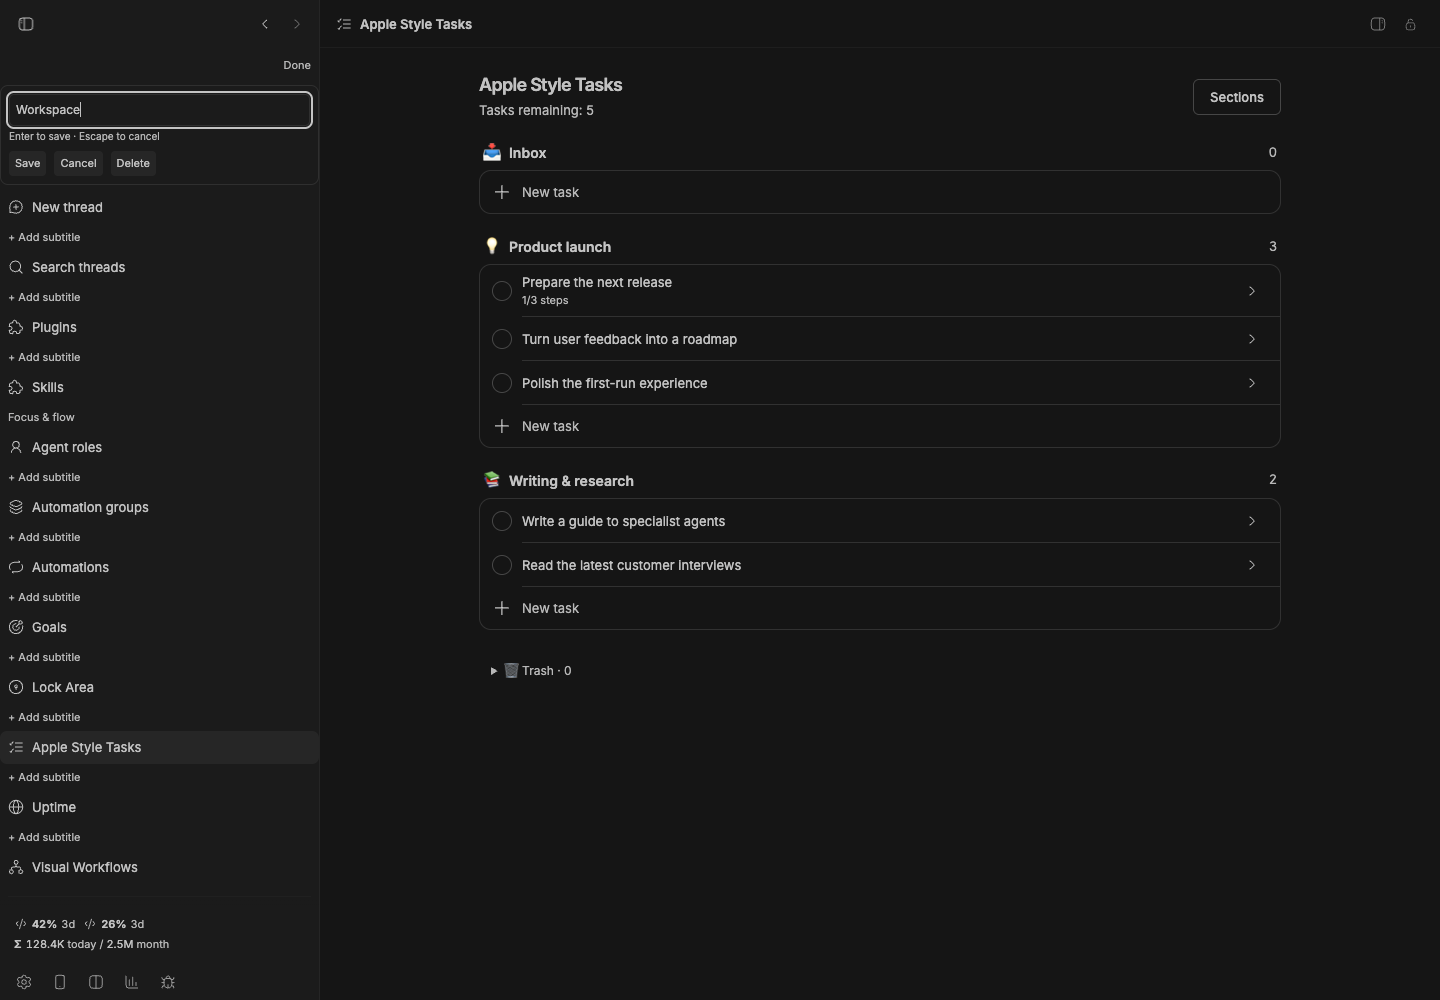
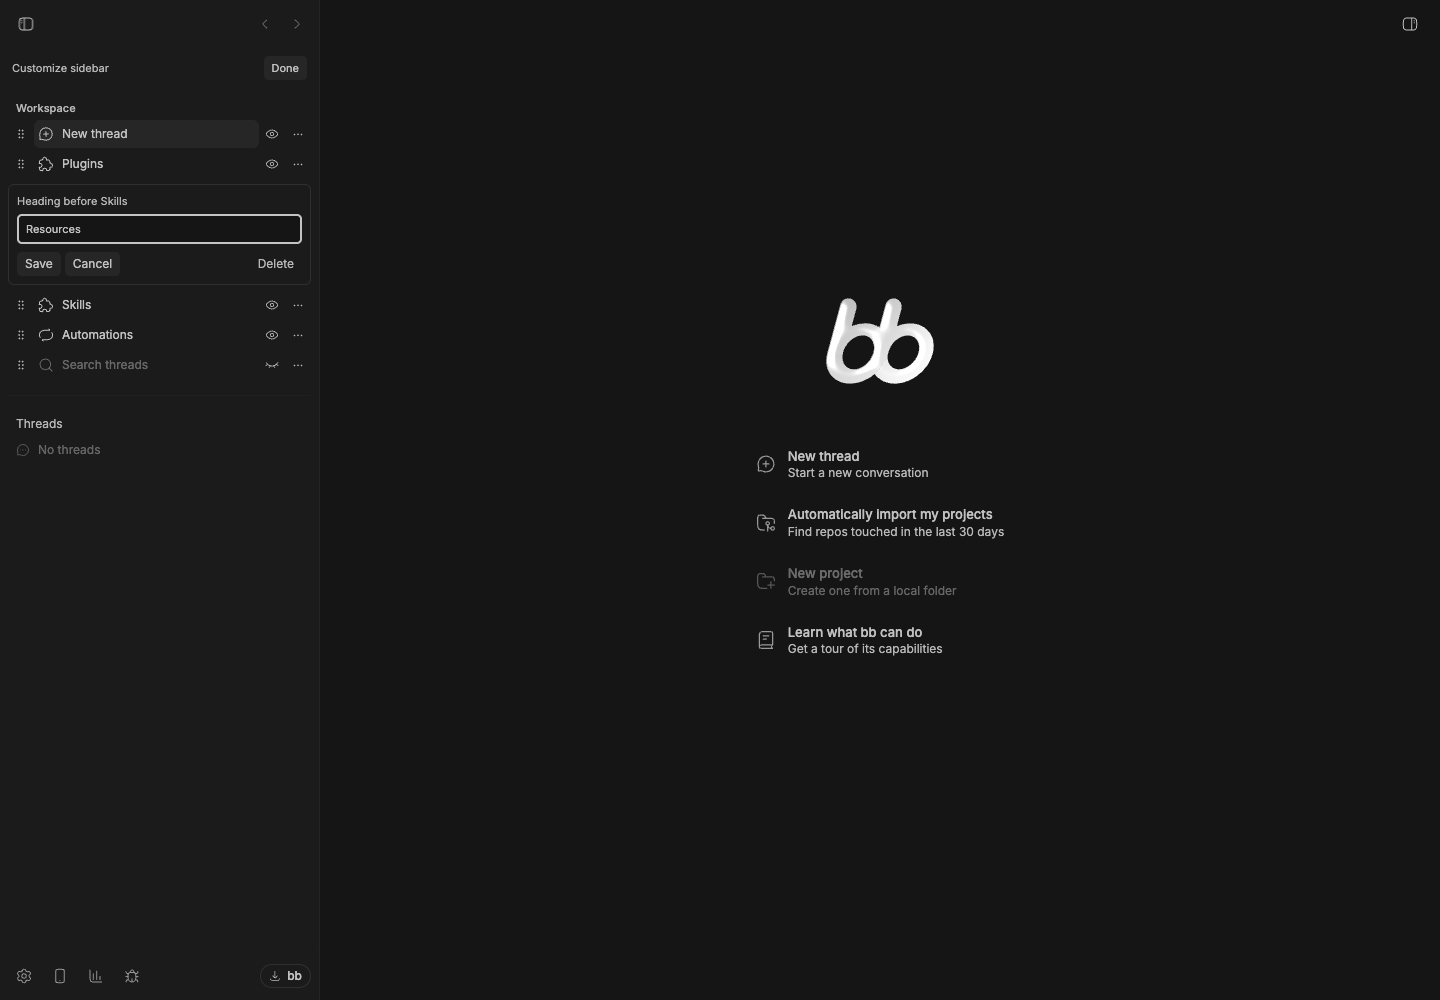
Update Sidebar Subtitles: native spacing, order and visibility (#325)
Automated note from a Claude Code agent, posted on behalf of the marketplace maintainer.

Approved under the maintainer’s admission policy. Exact submitted release installed and loaded on BB 0.43.3; required format and CI pass. No malware evidence or author addition to New and Notable found. Merging with maintainer authorization.

diff --git a/overview/sidebar-subtitles.md b/overview/sidebar-subtitles.md
@@ -1,9 +1,17 @@
-## A calmer sidebar
+## Arrange your sidebar
 
-Add section headings above navigation destinations to group tools by the way you work. Use the inline editor with explicit Save, Cancel and Delete actions. Escape cancels a draft; leaving the field does not save it.
+Keep the destinations you use visible and group them with your own headings. Desktop rows follow BB’s native height and spacing, with section menus appearing on hover or keyboard focus. Touch layouts keep the controls visible.
 
-## Native destinations, your labels
+Open the sliders button beside More for compact customization: drag handles reorder sections and eye buttons hide or restore them. Section menus provide keyboard-accessible move actions and heading editing. Hidden destinations open in a More popover without expanding the sidebar.
 
-Uses BB's supplied navigation items, activation and split gestures. Existing native subtitle preferences are preserved, as are item ordering and visibility. If another navigation provider is selected, choose Sidebar Subtitles in Settings → Appearance.
+## Keep your existing layout
 
-Only one navigation provider is active at once. Disabling the plugin restores the original navigation; saved headings remain. Names are limited to 120 characters and concurrent edits fail without overwriting another change.
+Uses BB’s existing destination order and visibility preferences. Older heading keys and current navigation IDs are recognized automatically. Switching back to native navigation retains the order and hidden destinations. Cmd/Ctrl-click still opens a destination in a split.
+
+## Edit deliberately
+
+Heading edits have Save, Cancel and Delete controls. Escape cancels a draft; leaving the field does not save. Concurrent preference changes are rejected rather than overwritten. Headings are limited to 120 characters.
+
+## Requirements
+
+BB 0.43 or later and Plugin SDK 0.4.87 or later. Select Sidebar Subtitles in Settings → Appearance when another navigation provider is active. Only one navigation provider can be active. No account, external service or core patch is required.
